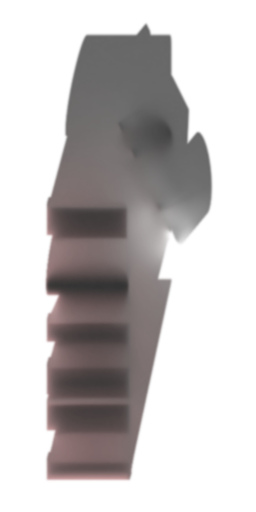
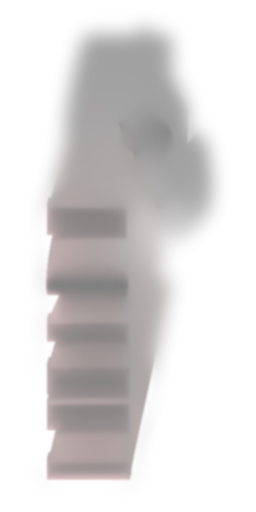
update

diff --git a/three.js-master/examples/webgl_materials_envmaps_groundprojected.html b/three.js-master/examples/webgl_materials_envmaps_groundprojected.html
@@ -112,7 +112,7 @@
 					//mesh.rotation.y = - Math.PI /2;
 					mesh.rotation.z = - Math.PI /2;
 					mesh.position.z = 1.25;
-					mesh.position.x = 2.8;
+					mesh.position.x = 2.75;
 					mesh.renderOrder = 2;
 					model.add( mesh );
 
